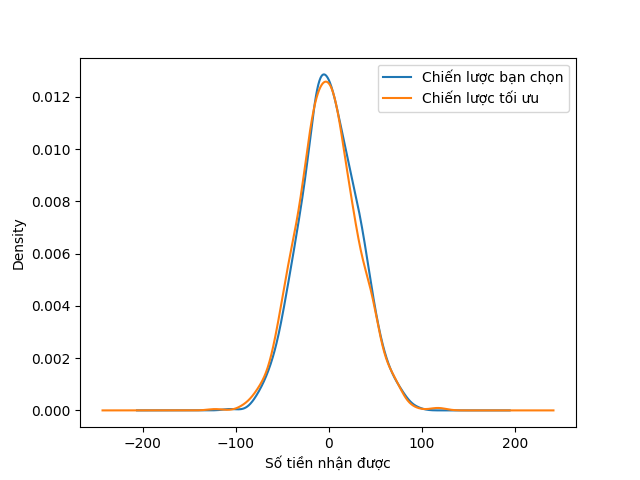
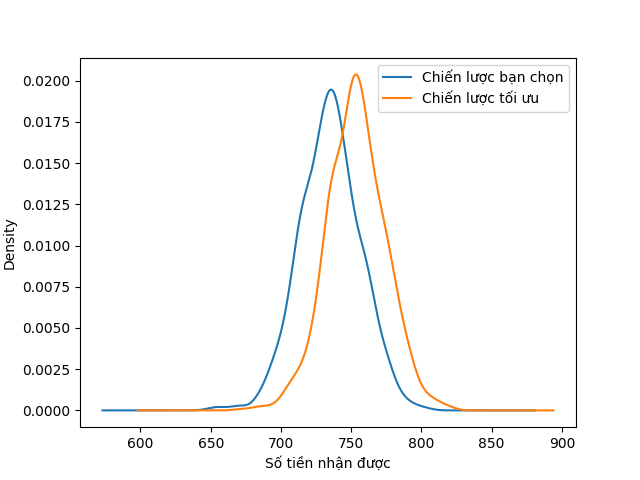
update

diff --git a/game_theo.py b/game_theo.py
@@ -42,14 +42,13 @@ class ve_do_thi():
         self.p1=p1
     
     def chien_luoc(self):
-        b = Infor(self.p1,ve_do_thi.p20)
         if self.p1<0.5:
-            e = 1
+            e = "p2=1"
         elif self.p1>0.5:
-            e = 0
+            e = "p2=0"
         else:
             e = "Bất kể chiến lược nào cũng được"
-        return (f"Người 1: {self.p1}\nNgười 2: {e}")
+        return (f"Người 1: {self.p1}\nChiến lược tối ưu cho người 2: {e}")
         
     def minh_hoa(self):
         fig = plt.figure()
@@ -67,8 +66,8 @@ class ve_do_thi():
         plt.scatter(c.Var(), c.ER(), color="yellow")
         plt.scatter(d.Var(), d.ER(), color="red")
         plt.scatter(e.Var(), e.ER(), color="green")
-        plt.xlabel("var(p2S2+(1-p2)S2)")
-        plt.ylabel("E(p2S2+(1-p2)S2)")
+        plt.xlabel("var(p\u2082S\u2082+(1-p\u2082)S\u2082)")
+        plt.ylabel("E(p\u2082S\u2082+(1-p\u2082)S\u2082)")
         return fig
 
 class Kiem_dinh():
@@ -79,37 +78,34 @@ class Kiem_dinh():
     def mat_do_loi_nhuan(self):
         u1 =[]
         u2 = []
+        u3 = []
         for i in range(1000):
             n1 = random.choices(Peo1, weights=[self.p1,1-self.p1], k=1000)
             n2 = random.choices(Peo2, weights=[self.p2,1-self.p2], k=1000)
             s1 = list(map(encode, n1))
             s2 = list(map(encode, n2))
+            s3 = [1]*1000
+            s4 = [0]*1000
 
             chien_luoc = list(map(to_li,list(zip(s1,s2))))
+            chien_luoc1 = list(map(to_li,list(zip(s1,s3))))
+            chien_luoc2 = list(map(to_li,list(zip(s1,s4))))
             u1.append(sum(list(map(thu_hoach2, chien_luoc))))
-        n2 = []
-        s2 = []
-        if self.p1 >0.5:
-            for i in range(1000):
-                n1 = random.choices(Peo1, weights=[self.p1,1-self.p1], k=1000)
-                n2 = random.choices(Peo2, weights=[0,1], k=1000)
-                s2 = list(map(encode, n2))
-                s1 = list(map(encode, n1))
-                chien_luoc = list(map(to_li,list(zip(s1,s2))))
-                u2.append(sum(list(map(thu_hoach2, chien_luoc))))              
+            u2.append(sum(list(map(thu_hoach2, chien_luoc1))))
+            u3.append(sum(list(map(thu_hoach2, chien_luoc2))))
         
-        elif self.p1 <=0.5:
-            for i in range(1000):
-                n1 = random.choices(Peo1, weights=[self.p1,1-self.p1], k=1000)
-                n2 = random.choices(Peo2, weights=[1,0], k=1000)
-                s2 = list(map(encode, n2))
-                s1 = list(map(encode, n1))
-                chien_luoc = list(map(to_li,list(zip(s1,s2))))
-                u2.append(sum(list(map(thu_hoach2, chien_luoc))))              
-        u = pd.DataFrame({"Chiến lược bạn chọn": u1,"Chiến lược tối ưu": u2})
+        u = pd.DataFrame({"Chiến lược bạn chọn": u1,"Chiến lược tối ưu": u2,"Chiến lược tối ưu ": u3})
+        
         fig, ax = plt.subplots(1,1)
-        for s in u.columns:
-            u[s].plot(kind='density')
+               
+        if self.p1 <= 0.5:
+            u["Chiến lược bạn chọn"].plot(kind='density')
+            u["Chiến lược tối ưu "].plot(kind='density')
+            
+        else:
+            u["Chiến lược bạn chọn"].plot(kind='density')
+            u["Chiến lược tối ưu"].plot(kind='density')
+
         plt.legend()
         plt.xlabel("Số tiền nhận được")
         return fig
@@ -118,3 +114,4 @@ class Kiem_dinh():
 class Game_theo(Infor, ve_do_thi, Kiem_dinh):
     def __init__(self, p1, p2):
         super().__init__(p1, p2)
+

diff --git a/bot.py b/bot.py
@@ -15,8 +15,9 @@ import game
 
 from game_theo import Game_theo
 
-TOKEN = '' # Put toke in here
-ServerID = ""# Put toke in here
+TOKEN = 'MTAwNzU0MTQ4MzQ3NTMxNjgxNw.Gjvycv.-cNbwVQ8cWwsG4aqCGqg7B9WjFt0Ox1Pym2_jQ' # Put toke in here
+ServerID = "919927035558764574"# Put toke in here
+
 class abot(discord.Client):
     def __init__(self):
         super().__init__(intents=discord.Intents.all())
@@ -30,7 +31,7 @@ class abot(discord.Client):
 bot = abot()
 tree = app_commands.CommandTree(bot)
 
-with open("vn_offensive_words.txt",encoding="utf8") as f:
+with open("Bad word detection/vn_offensive_words.txt",encoding="utf8") as f:
     words = f.read().splitlines()
 
 @bot.event
